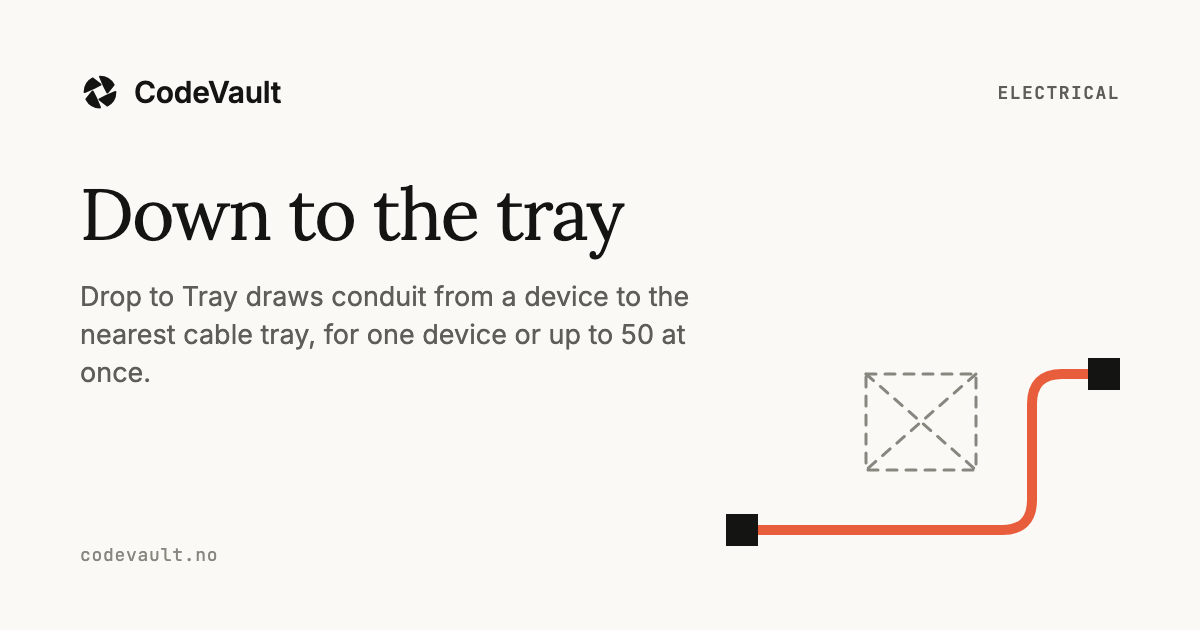
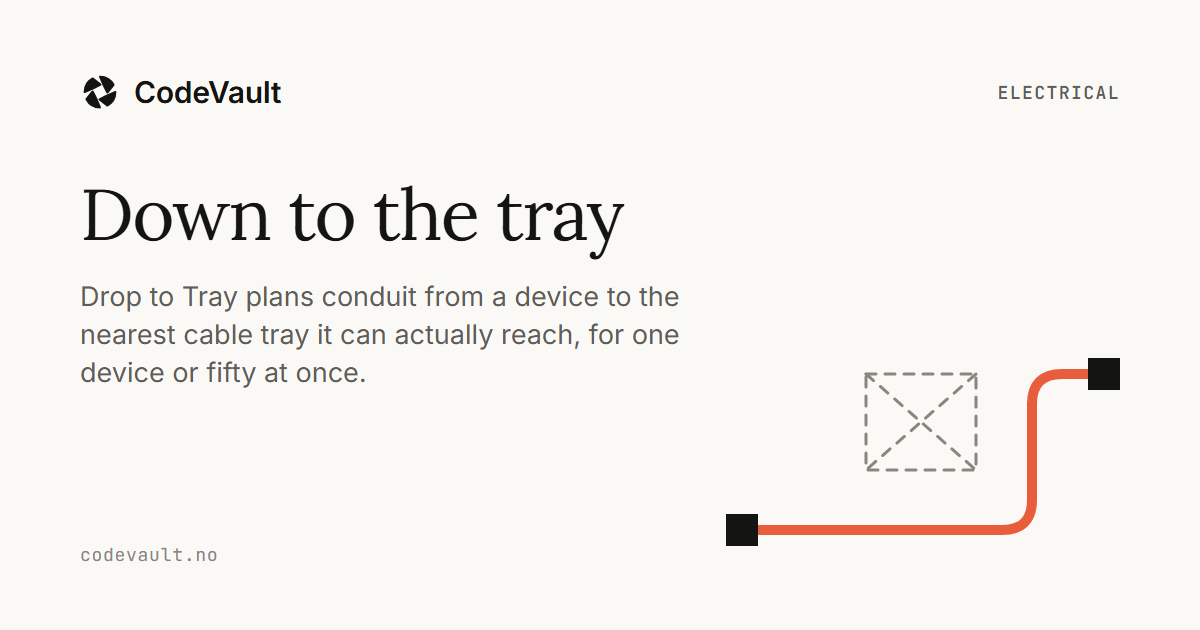
Rewrite news posts as an engineering blog (#13)
* Rewrite news posts as an engineering blog

Each post now opens with the problem, then explains how the router
handles it: the grid search, the three geometry checks, how tray drops
are planned and why the search chooses the openings. Facts come from
CodeVault Electrical's decision records and stay true on each post's
date. Titles and slugs are unchanged.

The voice is written down in docs/overview.md ("Writing a news post"),
and AGENTS.md rule 7 now points there. The social cards for the two
posts whose summaries changed are regenerated.

* Give news posts fewer, fuller sections

Merge related sections under 12 headings, down from 26, so each
section reads as a few developed paragraphs instead of a run of short
labelled ones. Facts, figures and figures' captions are unchanged.

---------

diff --git a/src/core/config/news.ts b/src/core/config/news.ts
@@ -4,7 +4,9 @@
 // CodeVault Electrical's source of truth is its own repository (the changelog,
 // the plan and the decision records); when in doubt, say less. It is meant to
 // be sold, so posts describe what it does for the people using it, not how
-// it's built: no languages, frameworks or vendors beyond Revit itself.
+// it's built: no languages, frameworks or vendors beyond Revit itself. How it
+// thinks (the search, the checks, the trade-offs) is fair game, and usually
+// the most interesting part.
 
 import { electrical } from "./electrical"
 
@@ -61,20 +63,20 @@ const posts: Post[] = [
     category: "Electrical",
     project: electrical.name,
     summary:
-      "Drop to Tray draws conduit from a device to the nearest cable tray, for one device or up to 50 at once.",
-    lead: "In a lot of ceilings, devices don't run to each other. Each one drops to the cable tray overhead. CodeVault Electrical now draws those drops.",
+      "Drop to Tray plans conduit from a device to the nearest cable tray it can actually reach, for one device or fifty at once.",
+    lead: "In most commercial ceilings, devices aren't wired to each other. Each one drops to the cable tray overhead, and modelling those drops is a large share of the conduit work on a project. CodeVault Electrical now plans them, with the same router and the same checks as every other route.",
     guides: ["revit-conduit-around-linked-models"],
     art: "tray",
     tone: "oat",
     body: [
-      { type: "h2", id: "one", text: "One device" },
+      { type: "h2", id: "nearest", text: "Nearest is a route, not a distance" },
       {
         type: "p",
-        text: "Select a device and click Drop to Tray. It finds the nearest horizontal tray it can reach, in the model or a linked one, and suggests a drop into its bottom or side that keeps clear of everything set to Avoid. The suggestion names the tray, and if a nearer one wasn't used, it says why.",
+        text: "The tray straight above a device is often not the one to use. It may be boxed in by ductwork, too narrow for the conduit, or sloped. So Drop to Tray doesn't measure, it plans. It reads every tray within reach, in the model and in linked models, and orders them by the cheapest route that could possibly reach each one. It then plans real routes in that order, one tray at a time, with that tray as the destination and every other tray treated as solid. As soon as no remaining tray could beat the best drop found, it stops. Searching all trays at once would be cheaper, but the search couldn't tell which tray it was entering and could pass through one tray to reach another. Pruning keeps it to one or two searches in practice, so the accuracy costs very little.",
       },
       {
         type: "p",
-        text: "The tray itself is never changed. Revit can't join conduit to a tray, so the drop stops at the tray's face, and the suggestion says so.",
+        text: "Where a drop lands is planned just as carefully. A tray offers entries on its bottom and on both sides, but only where the conduit fits: the side rail at least as tall as the conduit, the bottom at least as wide, and every entry clear of the tray's ends. A device directly under a tray rises straight into it, and one that's blocked at that point enters a little further along instead of failing. Revit has no join between conduit and cable tray, so the drop stops at the tray's face, and the tray itself is never modified. If a nearer tray wasn't used, the suggestion says why: blocked, no room for the conduit, or a more expensive route than the one chosen.",
       },
       {
         type: "figure",
@@ -86,12 +88,11 @@ const posts: Post[] = [
       { type: "h2", id: "batch", text: "Fifty at once" },
       {
         type: "p",
-        text: "Select up to 50 devices and each gets its own drop, in one review and one undo step. The drops keep clear of each other too. If one device can't be reached, nothing is added, and the message names it.",
+        text: "Select up to 50 devices and each gets its own drop. They are planned one after another under a single time budget, so every drop keeps clear of the ones before it. Before you see anything, the whole batch is checked together against the model's real geometry, including the space between the new drops. You review it once and accept it as one undo step. If one device can't be reached, nothing is added and the message names that device. That's deliberate: a batch that quietly skips three devices out of forty is a batch someone has to audit by hand.",
       },
-      { type: "h2", id: "routes", text: "Whole routes" },
       {
         type: "p",
-        text: "A new Routes panel works on routes CodeVault Electrical added. Select Routes picks up every piece of one. Remove Routes deletes it in one undo step and leaves the devices alone. Re-route plans it again between the same devices after the model has changed, and swaps it in.",
+        text: "Routes stay manageable after they're added. A new Routes panel works on routes CodeVault Electrical added: Select Routes picks up every piece of one, Remove Routes deletes it in one undo step and leaves the devices alone, and Re-route plans it again between the same devices after the model has changed, and swaps it in.",
       },
     ],
   },
@@ -103,7 +104,7 @@ const posts: Post[] = [
     project: electrical.name,
     summary:
       "A Revit add-in for electricians, starting with conduit routing. It's in development, and we're opening early access.",
-    lead: "CodeVault Electrical is a Revit add-in for electricians and electrical designers. It starts with conduit: pick the devices, and it suggests a route that keeps clear of what's in the way.",
+    lead: "CodeVault Electrical is a Revit add-in for electricians and electrical designers. It starts with the slowest part of the electrical model, conduit. You pick the devices. It plans a route through the ceiling that keeps clear of what's in the way, checks it against the model's real geometry, and asks before keeping it.",
     guides: [
       "revit-conduit-device-without-connector",
       "deploy-revit-add-in-to-every-machine",
@@ -114,29 +115,16 @@ const posts: Post[] = [
       { type: "h2", id: "why", text: "Why conduit first" },
       {
         type: "p",
-        text: "Drawing conduit in Revit is slow, careful work in 3D. Revit gives you conduit, fittings and a place to put them; the route itself is yours to find, segment by segment, around ducts, beams and pipes that usually live in someone else's linked model.",
+        text: "Revit gives you conduit, fittings and a place to put them. Finding the route is up to you, segment by segment, around ducts, beams and pipes that usually live in someone else's linked model. Electrical is often modelled after mechanical and plumbing, so conduit gets the space that's left, and every revision that moves a duct sends someone back to redraw the runs around it.",
       },
       {
         type: "p",
-        text: "And it doesn't stay drawn. Electrical is often modelled after mechanical and plumbing, so conduit takes the space that's left, and every design change that moves a duct sends someone back to redraw the runs around it.",
+        text: "Underneath, this is a search problem with hard constraints: straight runs with right-angle bends, room for every elbow, clearances to keep, and a model that keeps changing. The router works in 3D, on a sparse grid built from the faces of everything it has to keep clear of. It looks for the cheapest right-angled path, where every bend and every metre of vertical travel has a cost, and it never bends before there's room for the elbow. Routes come out short, level where they can be, and buildable as drawn. Connect Devices plans a whole network together, trying alternative layouts, routing orders and openings within one time limit and keeping the best complete network. Nothing is drawn unless every link is planned.",
       },
+      { type: "h2", id: "workflow", text: "In Revit, with the model you have" },
       {
         type: "p",
-        text: "CodeVault Electrical does the routing. You pick the devices; it finds a route, draws it, and asks before keeping it.",
-      },
-      { type: "h2", id: "workflow", text: "How it works in Revit" },
-      {
-        type: "p",
-        text: "It adds a CodeVault Electrical tab to the ribbon. Everything starts from there.",
-      },
-      {
-        type: "list",
-        items: [
-          "Route A→B: pick two devices, or a device and an open conduit end.",
-          "Connect Devices: select several, and they're linked as a chain or as a tree.",
-          "The route is drawn and highlighted first. Add it as one undo step, or cancel and the model is left as it was.",
-          "Settings: what routes keep clear of and what they may pass through, clearance, conduit type and how runs are linked, in one window.",
-        ],
+        text: "It adds a CodeVault Electrical tab to the ribbon. Route A→B joins two devices, or a device and an open conduit end. Connect Devices links several, as a chain or as a tree. Either way the route is drawn and highlighted first, and you add it as one undo step or cancel and the model is left as it was. One Settings window covers what routes keep clear of and what they may pass through, clearance, conduit type and how runs are linked.",
       },
       {
         type: "figure",
@@ -145,14 +133,9 @@ const posts: Post[] = [
         caption:
           "One tab, two tools, and the route in the model before you accept it.",
       },
-      { type: "h2", id: "model", text: "Works with the model you have" },
       {
-        type: "list",
-        items: [
-          "Your families. Plenty of receptacle, switch and light families have no conduit connector at all; routes still reach them, and any end that couldn't be joined is named so you can finish it.",
-          "Your conduit. New runs continue the type of the conduit you picked and use sizes from the project's own list.",
-          "Everyone else's models. Routes keep clear of what's in linked models too, checked against their real geometry before you see the suggestion.",
-        ],
+        type: "p",
+        text: "It works with the model you already have. Plenty of receptacle, switch and light families have no conduit connector at all; routes still reach them, and any end that couldn't be joined is named so you can finish it. New runs continue the type of the conduit you picked and use sizes from the project's own list. And routes keep clear of what's in linked models too, checked against their real geometry before you see the suggestion.",
       },
       {
         type: "figure",
@@ -172,12 +155,10 @@ const posts: Post[] = [
           "Collect diagnostics puts logs and settings in one file for support, without reading or changing the model.",
         ],
       },
-      { type: "h2", id: "next", text: "What comes next" },
       {
         type: "p",
-        text: "Drops from devices to the nearest cable tray. After that, more electrical tools, each in its own panel on the same tab.",
+        text: "Next are drops from devices to the nearest cable tray, and after that more electrical tools, each in its own panel on the same tab.",
       },
-      { type: "h2", id: "early-access", text: "Early access" },
       {
         type: "cta",
         text: "We're working with a small group of electrical contractors and designers ahead of the first release. Partners get early builds, a direct line to the people building it, and a say in what comes next.",
@@ -193,8 +174,8 @@ const posts: Post[] = [
     category: "Engineering",
     project: electrical.name,
     summary:
-      "Conduit is the run that gets moved when everything else is already in the ceiling. Why drawing it is hard, and what every route we suggest promises.",
-    lead: "Conduit is often modelled last and moved first. By the time the electrical design is drawn, ducts, pipes and steel have the best space, and a clash found later is usually solved by bending conduit around it. A tool that draws those routes has to be exact about what it promises.",
+      "How the router finds buildable routes through a full ceiling, and the three checks every route passes before you see it.",
+    lead: "Conduit is often modelled last and moved first. By the time the electrical design is drawn, ducts, pipes and steel have the best space, and a clash found later is usually solved by bending conduit around it. A tool that draws those routes is only useful if you can trust what it draws. That trust starts with being exact about what a route promises.",
     guides: [
       "revit-conduit-around-linked-models",
       "revit-conduit-not-enough-room-for-fittings",
@@ -202,10 +183,10 @@ const posts: Post[] = [
     art: "clearance",
     tone: "sky",
     body: [
-      { type: "h2", id: "hard", text: "Why it's hard" },
+      { type: "h2", id: "hard", text: "Harder than it looks" },
       {
         type: "p",
-        text: "On a plan, a run between two boxes is a line. In the model it's a path through a ceiling that is already full.",
+        text: "On a plan, a run between two boxes is a line. In the model it's a path through a ceiling that is already full, and the constraints pull against each other.",
       },
       {
         type: "list",
@@ -217,32 +198,22 @@ const posts: Post[] = [
           "Clashes found late are expensive. On site they mean stopped work, a reroute, and more bends than anyone planned.",
         ],
       },
-      { type: "h2", id: "promise", text: "The promise" },
       {
-        type: "p",
-        text: "Every route CodeVault Electrical suggests keeps clear of everything set to Avoid, in the model and in its links. It's checked before the suggestion appears, against the real geometry of what's there. If anything set to Avoid would be hit, nothing changes, and the message names the element in the way.",
-      },
-      { type: "h2", id: "avoid", text: "Avoid, or Go through" },
-      {
-        type: "p",
-        text: "Every kind of element is set to one or the other. By default, conduit keeps clear of ducts, pipes, cable trays, columns, equipment, doors and windows, and may pass through walls, beams and ceilings, the way it's installed. Each switch can be changed, and your own families can have rules of their own: anything named glass, say, always avoided.",
+        type: "h2",
+        id: "search",
+        text: "A search that only returns buildable routes",
       },
       {
-        type: "figure",
-        art: "clearance",
-        tone: "sky",
-        caption:
-          "Around what's set to Avoid; through the wall, which is listed before you accept.",
+        type: "p",
+        text: "The common way to route around obstacles is to find a path and then repair it: straighten it, insert the elbows, nudge whatever doesn't fit. Every repair step is a place where a valid path can become an invalid one. We wanted the search to produce only routes that can be built.",
       },
-      { type: "h2", id: "listed", text: "Listed, not hidden" },
       {
         type: "p",
-        text: "What a route passes through because the settings allow it is listed in the preview, with a reminder to check drilling, sleeves or fire stopping. Ends that couldn't be joined are named too, with the element to select, so they can be finished by hand. Coordination starts with a list instead of a search.",
+        text: "So the router works on a Hanan grid. Its lines run through every face of every obstacle, grown by the clearance and the conduit's radius, plus the endpoints and the points one straight run away from them, which makes the grid sparse in open space and dense where the decisions are. Each state in the search is a position and a direction of travel, so bends are counted exactly, and a turn jumps straight to the first point where the next elbow would fit. Every route the search returns already has room for its fittings; there is no repair step to fail afterwards. The cost of a route is its length plus a penalty for each bend and for vertical travel, and the estimate that guides the search never overstates what's left, so the route it returns is the cheapest on the grid and the same model gives the same route every time. The details matter: an earlier version let every move jump to any point along a line, and on a scene with 300 obstacles and ten devices it took 4 seconds instead of 0.17.",
       },
-      { type: "h2", id: "fittings", text: "Fittings that fit" },
       {
         type: "p",
-        text: "A route that can't take its elbows isn't a route. Every bend we suggest has room for the fitting that goes there, sized from the conduit you're using. Routes prefer fewer bends and level runs, and boxes in a wall are joined up, across and down, the way they're installed.",
+        text: "One thing the search can't know is how long an elbow family is, because Revit doesn't say in advance. The router plans with a minimum straight run worked out from the conduit's bend radius and diameter. If Revit still refuses an elbow, it plans again with longer runs, up to three times. Each attempt is a complete, validated route, and you only see the one that worked.",
       },
       {
         type: "figure",
@@ -251,15 +222,38 @@ const posts: Post[] = [
         caption:
           "Room for every elbow, and as few of them as the route allows.",
       },
-      { type: "h2", id: "no-route", text: "When there's no way through" },
+      { type: "h2", id: "promise", text: "The promise, and how it's checked" },
       {
         type: "p",
-        text: "Sometimes there isn't one. Then you get no route rather than a bad one. The message says what kind of element is in the way, and suggests setting it to Go through if conduit may pass it. Nothing is added to the model without you seeing it first.",
+        text: "Every route CodeVault Electrical suggests keeps clear of everything set to Avoid, in the model and in its links. The planner works with boxes, and a box is only an approximation of an element, so a route passes three independent checks before it appears.",
       },
-      { type: "h2", id: "words", text: "Why we don't say clash-free" },
+      {
+        type: "list",
+        items: [
+          "The plan is validated again by separate code. That check uses the conduit's outside diameter, the space each elbow sweeps through, and every other run in the same route.",
+          "Once the route is drawn, the real conduit and fittings, including any that Revit inserted while joining, are checked against the obstacles before the change is kept.",
+          "Their actual solids are intersected with the real geometry of every nearby element, in the host model and in every loaded link. Only hits with volume count, so touching faces don't.",
+        ],
+      },
       {
         type: "p",
-        text: "Because it isn't the promise. A route keeps clear of what you set to Avoid, and tells you about the rest. That's narrower than clash-free, and it's a promise we can keep.",
+        text: "If anything set to Avoid is hit, the whole route is rolled back, the model is left as it was, and the message names the element in the way. If a linked model becomes unavailable partway through, the check doesn't quietly pass; it fails, and says why. Behind that, every change to the router runs against benchmark scenes built from real pilot cases, gated on outcome, separation, bends, length, detour, search effort and whether it gives the same answer twice. A change that makes any of them worse has to justify itself before it ships.",
+      },
+      { type: "h2", id: "words", text: "Narrower than clash-free" },
+      {
+        type: "p",
+        text: "Every kind of element is set to Avoid or Go through. By default, conduit keeps clear of ducts, pipes, cable trays, columns, equipment, doors and windows, and may pass through walls, beams and ceilings, the way it's installed. Each switch can be changed, and your own families can have rules of their own: anything named glass, say, always avoided. What a route passes through because the settings allow it is listed in the preview, with a reminder to check drilling, sleeves or fire stopping, and ends that couldn't be joined are named with the element to select. Coordination starts with a list instead of a search.",
+      },
+      {
+        type: "figure",
+        art: "clearance",
+        tone: "sky",
+        caption:
+          "Around what's set to Avoid; through the wall, which is listed before you accept.",
+      },
+      {
+        type: "p",
+        text: "Sometimes there's no way through. Then you get no route rather than a bad one, with the kind of element that's in the way and a suggestion to set it to Go through if conduit may pass it. That's why we don't say clash-free. A route keeps clear of what you set to Avoid, and tells you about the rest. It's a narrower promise, and one we can keep.",
       },
       {
         type: "cta",
@@ -277,29 +271,24 @@ const posts: Post[] = [
     project: electrical.name,
     summary:
       "Junction boxes in a wall are now joined the way conduit is run: up out of the top, across, and down into the next.",
-    lead: "In an early test with junction boxes set into a wall, the conduit dropped below the floor and came back up. It was a valid route, and not one anyone would install.",
+    lead: "A route can meet every geometric rule and still be wrong. Between two junction boxes on the same wall, an early version left through the bottom, dropped about 400 mm below the floor and came back up. Nothing was hit and every elbow fit, but no electrician would install it.",
     guides: ["revit-conduit-device-without-connector"],
     art: "openings",
     tone: "olive",
     body: [
-      { type: "h2", id: "site", text: "How it's done on site" },
+      { type: "h2", id: "valid", text: "Valid is the minimum" },
       {
         type: "p",
-        text: "Conduit from a box in a wall usually goes up. It leaves through the top, runs in the space above the ceiling, and drops into the next box. That space is where the runs can be reached later; going under the floor means the slab, and usually somebody else's space.",
-      },
-      { type: "h2", id: "wrong", text: "What went wrong" },
-      {
-        type: "p",
-        text: "The add-in took the shortest way out of each box, and on those boxes that was through the bottom. Every rule was kept: clear of obstacles, room for every elbow. It still dropped about 400 mm under the floor to get between two boxes on the same wall.",
+        text: "A route that fails costs little: you read the message and change something. A route that passes every check but isn't how anyone builds costs more, because someone has to notice it, delete it and draw it again by hand. For a routing tool, correct has to include how the trade works, not just the geometry.",
       },
       {
         type: "p",
-        text: "That's the harder kind of mistake. A route that fails is obvious. A route that works but isn't how anyone would build it has to be noticed, deleted and drawn again by hand.",
+        text: "On site, conduit from a box in a wall usually goes up. It leaves through the top, runs in the space above the ceiling where it can be reached later, and drops into the next box. Going under the floor means the slab, and usually somebody else's space. Our router didn't know that. It fixed the pair of openings before it started searching, by straight-line distance, and on those boxes the closest pair was at the bottom. From there the cheapest legal route went under the floor. The search did exactly what it was asked. It was asked the wrong question.",
       },
-      { type: "h2", id: "top", text: "Top first" },
+      { type: "h2", id: "top", text: "Let the search choose" },
       {
         type: "p",
-        text: "Now a box is left through the top whenever it can be. If the top openings are taken or blocked, a side; the bottom only when nothing else will do. Boxes on the same wall are joined up, across and down.",
+        text: "Now every free opening of each device goes into the search, and the search starts from all of them at once. Leaving or entering a device costs nothing through the top, a little through a side, and more through the bottom, and that cost is weighed against length and bends in the same search. A top opening wins whenever it reasonably can, a side when the top is taken or blocked, and the bottom only when nothing else will do. The opening is part of the route, so the same search that chooses the route should choose it.",
       },
       {
         type: "figure",
@@ -308,15 +297,9 @@ const posts: Post[] = [
         caption:
           "Two boxes in a wall, joined through their top openings. The old route, under the floor, ghosted below.",
       },
-      { type: "h2", id: "solid", text: "Boxes are solid" },
       {
         type: "p",
-        text: "A box is also something to keep clear of, except straight out of its openings. A route can't pass through one, or leave from its back. Each opening carries one run, and a box that already has a run gets the next through a free opening instead of failing.",
-      },
-      { type: "h2", id: "families", text: "Families vary" },
-      {
-        type: "p",
-        text: "Box families differ from office to office. Some put several connectors on a single opening; many receptacle families have no conduit connector at all. Routes handle both: openings are never shared, and a device without a connector is still reached, with the end named in the preview so it can be joined by hand.",
+        text: "A box is now an obstacle too, except for a channel straight out of each opening, so a route can't pass through one or leave from its back. Each opening carries one run, and a box that already has a run gets the next one through a free opening instead of failing. Box families differ from office to office: some put several connectors on a single opening, and many receptacle families have no conduit connector at all. Routes handle both. Openings are never shared, and a device without a connector is still reached, with the end named in the preview so it can be joined by hand.",
       },
       {
         type: "figure",
@@ -325,10 +308,9 @@ const posts: Post[] = [
         caption:
           "Out through the top when it's free; the side when it isn't; the bottom last.",
       },
-      { type: "h2", id: "test", text: "The test" },
       {
         type: "p",
-        text: "Clear of obstacles is the minimum. The real test is whether an electrician would run it that way.",
+        text: "Clear of obstacles is the minimum. The standard is whether an electrician would run it that way.",
       },
       {
         type: "cta",

diff --git a/docs/overview.md b/docs/overview.md
@@ -84,6 +84,25 @@ a guide changes.
 
 ## Writing a news post
 
+News reads as an engineering blog, not a changelog. Write as the engineers
+who built it ("we"), to a reader who knows the trade ("you"), and leave them
+feeling the work is careful and the problems are hard. The product is how we
+solved the problem, never the pitch.
+
+- **Open with the problem**, not the button. What's hard about it, on site
+  or in the model, comes before what the tool does.
+- **Show how it thinks.** The search, the checks, the trade-offs we chose
+  and why. Real numbers where we have them. This is where the depth comes
+  from, and it never needs a language or framework name.
+- **Have a view.** One or two lines a reader could quote: "The opening is
+  part of the route, so the same search that chooses the route should
+  choose it."
+- **Limits are design decisions**, stated once as a choice ("all or
+  nothing, on purpose"), never as an apology.
+- **Light on story.** One concrete case is enough to set up a problem.
+- **Two lengths.** Engineering posts are essays; release posts open the
+  same way but stay short.
+
 Add an entry to `src/core/config/news.ts`. Every claim about CodeVault
 Electrical should be checkable against its repository (`CHANGELOG.md`,
 `PLAN.md`, `docs/adr/`, the commit log) on the post's date. Describe what it

diff --git a/AGENTS.md b/AGENTS.md
@@ -58,7 +58,10 @@ the current product. Read as a company a large customer can trust, without overc
    essay about our correspondence philosophy. Cut to what the page is actually
    for. **Not every heading needs a description**, and a section that only
    works because it's padded out should be shorter or gone. One good sentence
-   beats three that circle it. Silence is often the right answer.
+   beats three that circle it. Silence is often the right answer. News posts
+   are the exception in length, not in discipline: they read as an
+   engineering blog, with depth on how the work thinks. See "Writing a news
+   post" in [`docs/overview.md`](./docs/overview.md).
 8. **Responsive, accessible, dark-mode-safe.** All three are part of "done."
 9. **Never hand-edit generated files** (`src/routeTree.gen.ts`).
 
